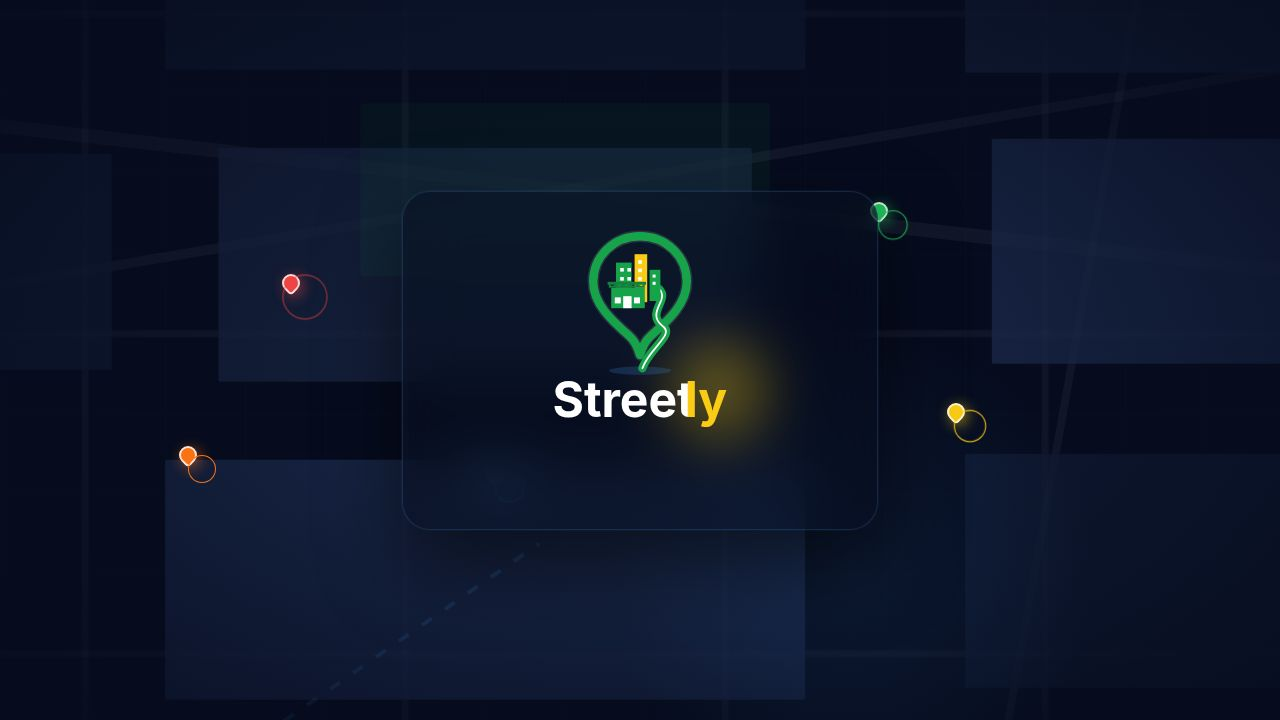
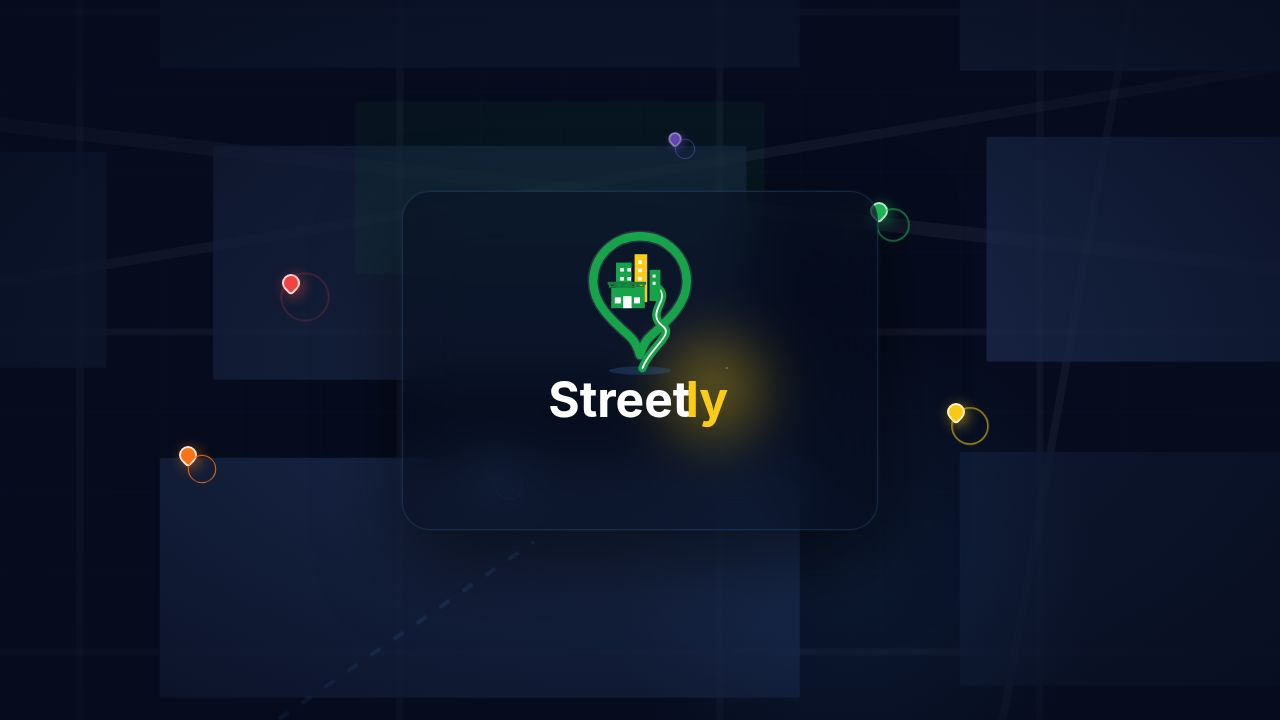
Task #29: Catch type errors in the API server before they reach production
Fixed all TypeScript errors in artifacts/api-server so `pnpm tsc --noEmit` exits with 0 errors. No `as any` assertions were added (pre-existing ones were left untouched).

Root causes found:
1. Express 5's route param type inference (RouteParameters<path>) gets discarded and
   falls back to the looser `ParamsDictionary` (`string | string[]`) whenever a route
   handler is combined with a middleware whose Request type isn't parameterized with
   the same literal path (e.g. `adminOnly`, `requireAuth`, `blockIfMustChangePassword`).
   Fixed by explicitly annotating the affected handlers as `Request<{ id: string }>` /
   `Request<{ businessId: string }>` in admin.ts, chat.ts, analytics.ts, claims.ts,
   deliveries.ts, marketplace-items.ts, reviews.ts.
2. `fetch(...).json()` resolves to `unknown` under current @user/node; geo.ts and
   objectStorage.ts destructured fields off it without a type. Added minimal inline
   response-shape interfaces/casts (`as { ... }`) at the two call sites.

No functional/runtime behavior changes — verified the api-server workflow builds and
starts cleanly, and the streetly web workflow still runs.

Deviation: none from the task description.
Replit-Task-Id: 2e0e9cd0-2425-4a6d-9dce-024e3fb95a78

diff --git a/artifacts/api-server/src/routes/admin.ts b/artifacts/api-server/src/routes/admin.ts
@@ -1,4 +1,4 @@
-import { Router } from "express";
+import { Router, Request } from "express";
 import crypto from "crypto";
 import { db } from "@workspace/db";
 import {
@@ -13,6 +13,8 @@ import { generateUniqueSlug } from "./businesses";
 import { enrichProperty } from "./properties";
 import { sendMail } from "../lib/mailer";
 import { requireRole } from "../lib/authHelpers";
+
+type IdParams = { id: string };
 
 const router = Router();
 
@@ -192,7 +194,7 @@ router.put("/businesses/featured-order", async (req, res) => {
 });
 
 // PUT /admin/businesses/:id — edit any business (admin only)
-router.put("/businesses/:id", adminOnly, async (req, res) => {
+router.put("/businesses/:id", adminOnly, async (req: Request<IdParams>, res) => {
   const id = parseInt(req.params.id);
   if (isNaN(id)) return res.status(400).json({ error: "Invalid id" });
 
@@ -223,7 +225,7 @@ router.put("/businesses/:id", adminOnly, async (req, res) => {
 });
 
 // PATCH /admin/businesses/:id/suspend — toggle suspension (admin only)
-router.patch("/businesses/:id/suspend", adminOnly, async (req, res) => {
+router.patch("/businesses/:id/suspend", adminOnly, async (req: Request<IdParams>, res) => {
   const id = parseInt(req.params.id);
   if (isNaN(id)) return res.status(400).json({ error: "Invalid id" });
   const { suspend } = req.body;
@@ -236,7 +238,7 @@ router.patch("/businesses/:id/suspend", adminOnly, async (req, res) => {
 });
 
 // DELETE /admin/businesses/:id (admin only)
-router.delete("/businesses/:id", adminOnly, async (req, res) => {
+router.delete("/businesses/:id", adminOnly, async (req: Request<IdParams>, res) => {
   const id = parseInt(req.params.id);
   if (isNaN(id)) return res.status(400).json({ error: "Invalid id" });
   await db.delete(businessPhotosTable).where(eq(businessPhotosTable.businessId, id));
@@ -371,7 +373,7 @@ router.post("/properties", adminOnly, async (req, res) => {
 });
 
 // PUT /admin/properties/:id — edit any property (admin only)
-router.put("/properties/:id", adminOnly, async (req, res) => {
+router.put("/properties/:id", adminOnly, async (req: Request<IdParams>, res) => {
   const id = parseInt(req.params.id);
   if (isNaN(id)) return res.status(400).json({ error: "Invalid id" });
 
@@ -421,7 +423,7 @@ router.patch("/properties/:id/approve", async (req, res) => {
 });
 
 // DELETE /admin/properties/:id (admin only)
-router.delete("/properties/:id", adminOnly, async (req, res) => {
+router.delete("/properties/:id", adminOnly, async (req: Request<IdParams>, res) => {
   const id = parseInt(req.params.id);
   if (isNaN(id)) return res.status(400).json({ error: "Invalid id" });
   await db.delete(propertyPhotosTable).where(eq(propertyPhotosTable.propertyId, id));
@@ -498,7 +500,7 @@ router.patch("/agents/:id/suspend", async (req, res) => {
 });
 
 // PATCH /admin/agents/:id/assign-manager — assign agent to a regional manager (admin only)
-router.patch("/agents/:id/assign-manager", adminOnly, async (req, res) => {
+router.patch("/agents/:id/assign-manager", adminOnly, async (req: Request<IdParams>, res) => {
   const id = parseInt(req.params.id);
   if (isNaN(id)) return res.status(400).json({ error: "Invalid id" });
   const { managerId } = req.body;
@@ -515,7 +517,7 @@ router.patch("/agents/:id/assign-manager", adminOnly, async (req, res) => {
 });
 
 // DELETE /admin/agents/:id (admin only)
-router.delete("/agents/:id", adminOnly, async (req, res) => {
+router.delete("/agents/:id", adminOnly, async (req: Request<IdParams>, res) => {
   const id = parseInt(req.params.id);
   if (isNaN(id)) return res.status(400).json({ error: "Invalid id" });
   const [agent] = await db.select().from(agentsTable).where(eq(agentsTable.id, id)).limit(1);

diff --git a/artifacts/api-server/src/routes/deliveries.ts b/artifacts/api-server/src/routes/deliveries.ts
@@ -1,4 +1,4 @@
-import { Router } from "express";
+import { Router, Request } from "express";
 import { db } from "@workspace/db";
 import {
   deliveryOrdersTable, businessesTable, ridersTable, usersTable,
@@ -64,6 +64,8 @@ function verifyGuestTrackingToken(
   return crypto.timingSafeEqual(expectedBuf, actualBuf);
 }
 
+type BusinessParams = { businessId: string };
+
 const router = Router({ mergeParams: true });
 const standaloneRouter = Router();
 router.use(blockIfMustChangePassword);
@@ -97,7 +99,7 @@ async function enrichDelivery(order: typeof deliveryOrdersTable.$inferSelect) {
 }
 
 // POST /businesses/:businessId/deliveries — customer creates a delivery request
-router.post("/", async (req, res) => {
+router.post("/", async (req: Request<BusinessParams>, res) => {
   const businessId = parseInt(req.params.businessId);
   if (isNaN(businessId)) return res.status(400).json({ error: "Invalid businessId" });
 
@@ -138,7 +140,7 @@ router.post("/", async (req, res) => {
 });
 
 // GET /businesses/:businessId/deliveries — business owner (or admin) views their delivery orders
-router.get("/", async (req, res) => {
+router.get("/", async (req: Request<BusinessParams>, res) => {
   const businessId = parseInt(req.params.businessId);
   if (isNaN(businessId)) return res.status(400).json({ error: "Invalid businessId" });
 
@@ -303,7 +305,7 @@ const businessMarketRouter = Router({ mergeParams: true });
 
 // GET /businesses/:businessId/available-riders — online, approved riders near the business,
 // each with a computed delivery fee, so the customer can pick one at checkout.
-businessMarketRouter.get("/available-riders", async (req, res) => {
+businessMarketRouter.get("/available-riders", async (req: Request<BusinessParams>, res) => {
   const businessId = parseInt(req.params.businessId);
   if (isNaN(businessId)) return res.status(400).json({ error: "Invalid businessId" });
 
@@ -334,7 +336,7 @@ businessMarketRouter.get("/available-riders", async (req, res) => {
 
 // POST /businesses/:businessId/marketplace-orders — customer checks out a cart:
 // picks items + a specific rider, server recomputes all pricing and creates the order pre-assigned to that rider.
-businessMarketRouter.post("/marketplace-orders", async (req, res) => {
+businessMarketRouter.post("/marketplace-orders", async (req: Request<BusinessParams>, res) => {
   const businessId = parseInt(req.params.businessId);
   if (isNaN(businessId)) return res.status(400).json({ error: "Invalid businessId" });
 

diff --git a/artifacts/api-server/src/routes/geo.ts b/artifacts/api-server/src/routes/geo.ts
@@ -26,7 +26,7 @@ async function getRates(): Promise<RateInfo> {
   }
   try {
     const resp = await fetch("https://open.er-api.com/v6/latest/NGN");
-    const data = await resp.json();
+    const data = (await resp.json()) as { result?: string; rates?: Record<string, number> };
     if (data && data.result === "success" && data.rates) {
       rateCache = { base: "NGN", rates: data.rates, fetchedAt: Date.now() };
       return rateCache;
@@ -53,7 +53,15 @@ async function lookupGeo(ip: string): Promise<GeoInfo> {
   }
   try {
     const resp = await fetch(`http://ip-api.com/json/${encodeURIComponent(ip)}?fields=status,message,country,countryCode,regionName,city,currency,query`);
-    const data = await resp.json();
+    const data = (await resp.json()) as {
+      status?: string;
+      query?: string;
+      city?: string;
+      regionName?: string;
+      country?: string;
+      countryCode?: string;
+      currency?: string;
+    };
     if (data && data.status === "success") {
       return {
         ip: data.query ?? ip,

diff --git a/artifacts/api-server/src/routes/marketplace-items.ts b/artifacts/api-server/src/routes/marketplace-items.ts
@@ -1,4 +1,4 @@
-import { Router } from "express";
+import { Router, Request } from "express";
 import { db } from "@workspace/db";
 import { marketplaceItemsTable, businessesTable, usersTable } from "@workspace/db";
 import { eq, and } from "drizzle-orm";
@@ -23,13 +23,15 @@ async function requireOwnerOrAdmin(userId: number | null, businessId: number): P
   return { ok: true };
 }
 
+type BusinessParams = { businessId: string };
+
 const router = Router({ mergeParams: true });
 const standaloneRouter = Router();
 router.use(blockIfMustChangePassword);
 standaloneRouter.use(blockIfMustChangePassword);
 
 // GET /businesses/:businessId/marketplace-items — public storefront view (available items only)
-router.get("/", async (req, res) => {
+router.get("/", async (req: Request<BusinessParams>, res) => {
   const businessId = parseInt(req.params.businessId);
   if (isNaN(businessId)) return res.status(400).json({ error: "Invalid businessId" });
 
@@ -40,7 +42,7 @@ router.get("/", async (req, res) => {
 });
 
 // GET /businesses/:businessId/marketplace-items/manage — owner/admin view (includes unavailable items)
-router.get("/manage", async (req, res) => {
+router.get("/manage", async (req: Request<BusinessParams>, res) => {
   const businessId = parseInt(req.params.businessId);
   if (isNaN(businessId)) return res.status(400).json({ error: "Invalid businessId" });
 
@@ -54,7 +56,7 @@ router.get("/manage", async (req, res) => {
 });
 
 // POST /businesses/:businessId/marketplace-items — owner/admin adds an item
-router.post("/", async (req, res) => {
+router.post("/", async (req: Request<BusinessParams>, res) => {
   const businessId = parseInt(req.params.businessId);
   if (isNaN(businessId)) return res.status(400).json({ error: "Invalid businessId" });
 

diff --git a/artifacts/api-server/src/routes/chat.ts b/artifacts/api-server/src/routes/chat.ts
@@ -1,10 +1,12 @@
-import { Router } from "express";
+import { Router, Request } from "express";
 import { db } from "@workspace/db";
 import {
   conversationsTable, chatMessagesTable, businessesTable, usersTable,
 } from "@workspace/db";
 import { eq, and, or, desc, isNull, ne } from "drizzle-orm";
 import { requireAuth } from "../lib/authHelpers";
+
+type IdParams = { id: string };
 
 const router = Router();
 
@@ -90,7 +92,7 @@ function canAccessConversation(conv: typeof conversationsTable.$inferSelect, use
 }
 
 // GET /conversations/:id/messages
-router.get("/:id/messages", requireAuth, async (req, res) => {
+router.get("/:id/messages", requireAuth, async (req: Request<IdParams>, res) => {
   const user = (req as any).currentUser;
   const id = parseInt(req.params.id);
   if (isNaN(id)) return res.status(400).json({ error: "Invalid id" });
@@ -119,7 +121,7 @@ router.get("/:id/messages", requireAuth, async (req, res) => {
 });
 
 // POST /conversations/:id/messages
-router.post("/:id/messages", requireAuth, async (req, res) => {
+router.post("/:id/messages", requireAuth, async (req: Request<IdParams>, res) => {
   const user = (req as any).currentUser;
   const id = parseInt(req.params.id);
   if (isNaN(id)) return res.status(400).json({ error: "Invalid id" });

diff --git a/artifacts/api-server/src/routes/claims.ts b/artifacts/api-server/src/routes/claims.ts
@@ -1,9 +1,11 @@
-import { Router } from "express";
+import { Router, Request } from "express";
 import { db } from "@workspace/db";
 import { businessClaimsTable, businessesTable, usersTable } from "@workspace/db";
 import { eq, and } from "drizzle-orm";
 import { verifyToken } from "./auth";
 import { blockIfMustChangePassword } from "../lib/authHelpers";
+
+type BusinessParams = { businessId?: string; id?: string };
 
 const router = Router({ mergeParams: true });
 router.use(blockIfMustChangePassword);
@@ -15,7 +17,7 @@ function getUser(req: any): { userId: number } | null {
 }
 
 // POST /businesses/:id/claim
-router.post("/", async (req, res) => {
+router.post("/", async (req: Request<BusinessParams>, res) => {
   const businessId = parseInt(req.params.businessId ?? req.params.id ?? "0");
   if (isNaN(businessId)) return res.status(400).json({ error: "Invalid business id" });
 
@@ -46,7 +48,7 @@ router.post("/", async (req, res) => {
 });
 
 // GET /businesses/:id/claim/status — check claim status for current user
-router.get("/status", async (req, res) => {
+router.get("/status", async (req: Request<BusinessParams>, res) => {
   const businessId = parseInt(req.params.businessId ?? req.params.id ?? "0");
   const user = getUser(req);
   if (!user) return res.json({ claimed: false, status: null });

diff --git a/artifacts/api-server/src/routes/reviews.ts b/artifacts/api-server/src/routes/reviews.ts
@@ -1,12 +1,14 @@
-import { Router } from "express";
+import { Router, Request } from "express";
 import { db } from "@workspace/db";
 import { reviewsTable } from "@workspace/db";
 import { eq, desc } from "drizzle-orm";
 
+type BusinessParams = { businessId: string };
+
 const router = Router({ mergeParams: true });
 
 // GET /businesses/:businessId/reviews
-router.get("/", async (req, res) => {
+router.get("/", async (req: Request<BusinessParams>, res) => {
   const businessId = parseInt(req.params.businessId);
   if (isNaN(businessId)) return res.status(400).json({ error: "Invalid businessId" });
 
@@ -18,7 +20,7 @@ router.get("/", async (req, res) => {
 });
 
 // POST /businesses/:businessId/reviews
-router.post("/", async (req, res) => {
+router.post("/", async (req: Request<BusinessParams>, res) => {
   const businessId = parseInt(req.params.businessId);
   if (isNaN(businessId)) return res.status(400).json({ error: "Invalid businessId" });
 

diff --git a/artifacts/api-server/src/routes/analytics.ts b/artifacts/api-server/src/routes/analytics.ts
@@ -1,10 +1,12 @@
-import { Router } from "express";
+import { Router, Request } from "express";
 import { db } from "@workspace/db";
 import {
   businessAnalyticsEventsTable, businessesTable, deliveryOrdersTable,
 } from "@workspace/db";
 import { eq, and, gte, sql } from "drizzle-orm";
 import { requireAuth } from "../lib/authHelpers";
+
+type BusinessParams = { businessId: string };
 
 const router = Router({ mergeParams: true });
 
@@ -30,7 +32,7 @@ router.post("/track", async (req, res) => {
 });
 
 // GET /businesses/:businessId/analytics — owner or admin only
-router.get("/", requireAuth, async (req, res) => {
+router.get("/", requireAuth, async (req: Request<BusinessParams>, res) => {
   const businessId = parseInt(req.params.businessId);
   if (isNaN(businessId)) return res.status(400).json({ error: "Invalid businessId" });
 

diff --git a/artifacts/api-server/src/lib/objectStorage.ts b/artifacts/api-server/src/lib/objectStorage.ts
@@ -262,6 +262,6 @@ async function signObjectURL({
     );
   }
 
-  const { signed_url: signedURL } = await response.json();
+  const { signed_url: signedURL } = (await response.json()) as { signed_url: string };
   return signedURL;
 }